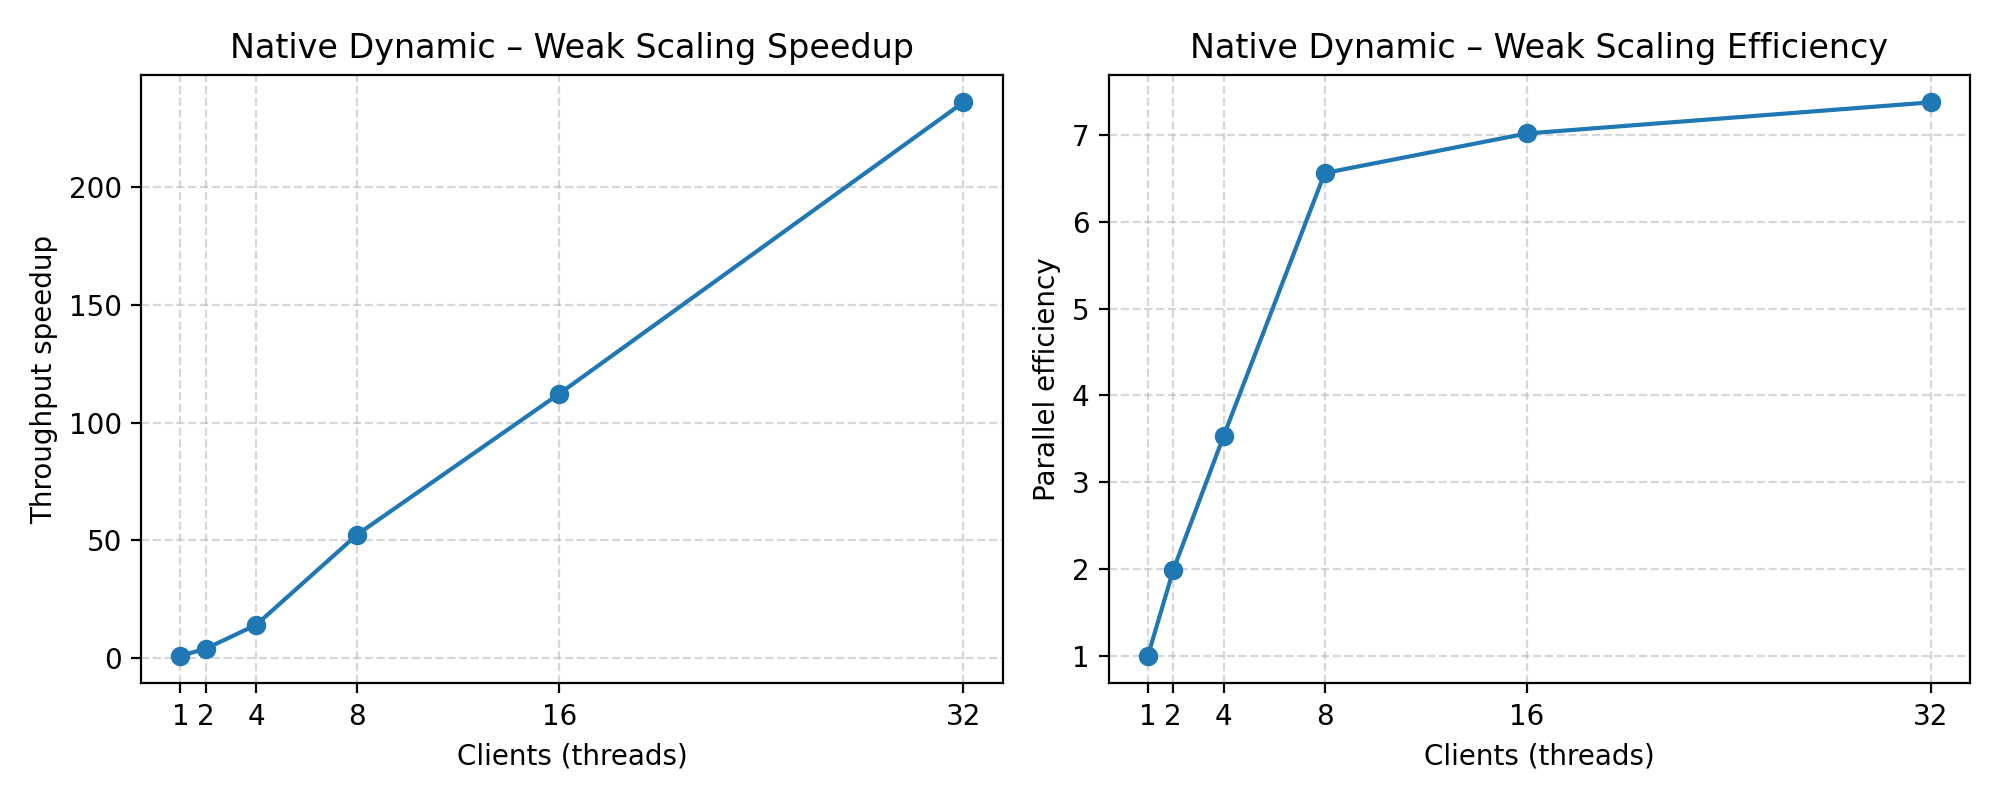
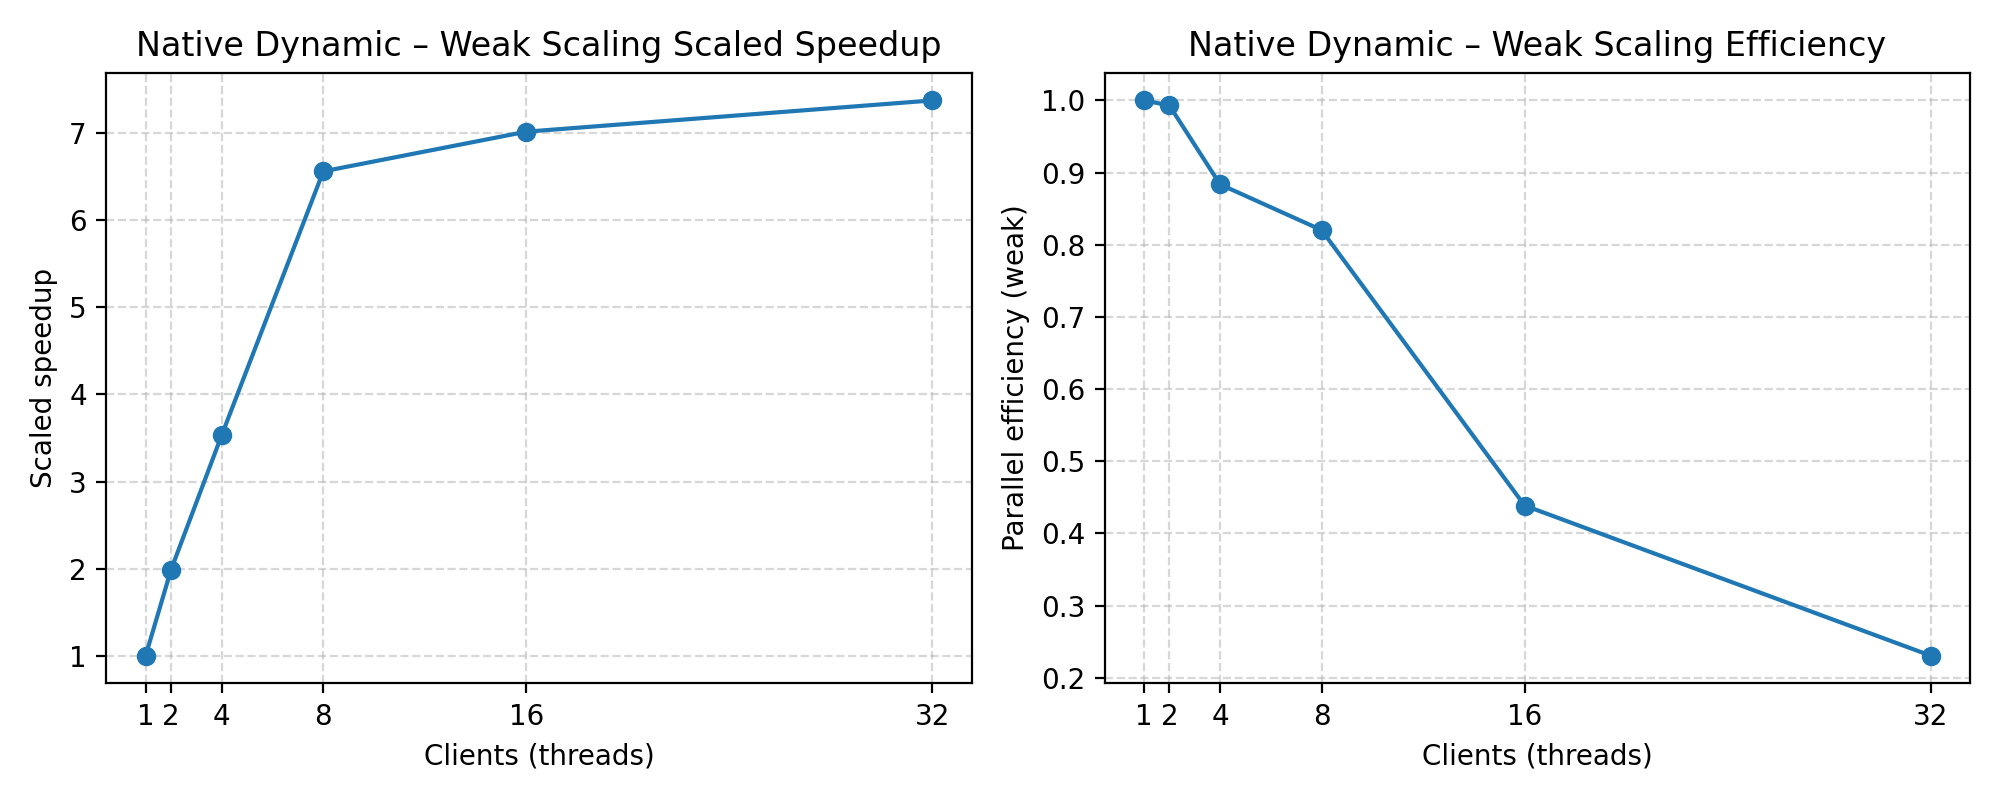
updated readme + refactored plots

diff --git a/tools/generate_plots.py b/tools/generate_plots.py
@@ -7,7 +7,7 @@ Usage:
     --results scaling-results/20251030_004543/scaling_results.csv \
     --output plots/
 
-The script expects a CSV with the schema documented in README.md:
+CSV schema (see README.md):
   variant,scaling_type,threads,executed_threads,data_size,total_size,iterations,avg_time_millis
 
 For each non-baseline variant it produces two PNG files per scaling mode:
@@ -15,6 +15,7 @@ For each non-baseline variant it produces two PNG files per scaling mode:
   <variant>_<scaling>_speedup_efficiency.png
 The baseline `jvm-local` variant is excluded from per-variant plots.
 """
+
 from __future__ import annotations
 
 import argparse
@@ -31,11 +32,11 @@ import numpy as np
 @dataclass
 class ScalingEntry:
     variant: str
-    scaling_type: str
+    scaling_type: str  # "strong" or "weak"
     threads: int
     executed_threads: int
-    data_size: float
-    total_size: float
+    data_size: float  # For WEAK: total work per run (already scales with p)
+    total_size: float  # For STRONG: total constant work across p
     iterations: int
     avg_time_ms: float
 
@@ -45,9 +46,13 @@ class ScalingEntry:
 
     @property
     def work_amount(self) -> float:
+        # IMPORTANT FIX:
+        # - Weak scaling rows already carry TOTAL work for that run in data_size (pN).
+        #   Do NOT multiply by threads again.
+        # - Strong scaling uses total_size (constant N).
         if self.scaling_type == "strong":
             return self.total_size
-        return self.data_size * self.executed_threads
+        return self.data_size
 
 
 def _parse_csv(path: Path) -> Dict[str, Dict[str, List[ScalingEntry]]]:
@@ -76,16 +81,44 @@ def _parse_csv(path: Path) -> Dict[str, Dict[str, List[ScalingEntry]]]:
     return result
 
 
-def _compute_metrics(entries: Iterable[ScalingEntry]) -> Dict[str, np.ndarray]:
-    entries = list(entries)
-    threads = np.array([item.executed_threads for item in entries], dtype=int)
-    work = np.array([item.work_amount for item in entries], dtype=float)
-    duration = np.array([item.duration_seconds for item in entries], dtype=float)
+def _compute_metrics(
+    entries: Iterable[ScalingEntry], scaling_type: str
+) -> Dict[str, np.ndarray]:
+    """
+    Returns arrays for threads, work, duration, throughput, speedup, efficiency.
 
+    Strong:
+      throughput = total_size / time
+      speedup    = throughput(p) / throughput(1)
+      efficiency = speedup / p
+
+    Weak:
+      throughput = data_size(p) / time               # data_size already equals p*N
+      E_weak     = T1(N) / Tp(pN)                    # based on durations only
+      S_scaled   = p * E_weak                        # reported as 'speedup' for plotting
+    """
+    entries = list(entries)
+    threads = np.array([it.executed_threads for it in entries], dtype=int)
+    work = np.array([it.work_amount for it in entries], dtype=float)
+    duration = np.array([it.duration_seconds for it in entries], dtype=float)
+
+    # Always useful to visualize absolute throughput
     throughput = work / duration
-    baseline = throughput[threads.argmin()]
-    speedup = throughput / baseline
-    efficiency = speedup / threads
+
+    if scaling_type == "strong":
+        # baseline at p = 1
+        if not np.any(threads == 1):
+            raise ValueError("Strong scaling group lacks a p=1 baseline.")
+        baseline_tp = throughput[threads == 1][0]
+        speedup = throughput / baseline_tp
+        efficiency = speedup / threads
+    else:
+        # Weak scaling metrics (corrected)
+        if not np.any(threads == 1):
+            raise ValueError("Weak scaling group lacks a p=1 baseline.")
+        T1N = duration[threads == 1][0]
+        efficiency = T1N / duration  # E_weak(p)
+        speedup = threads * efficiency  # Scaled speedup
 
     return {
         "threads": threads,
@@ -110,19 +143,23 @@ def _plot_throughput(metrics: Dict[str, np.ndarray], title: str, outfile: Path) 
     plt.close(fig)
 
 
-def _plot_speedup_efficiency(metrics: Dict[str, np.ndarray], title_prefix: str, outfile: Path) -> None:
+def _plot_speedup_efficiency(
+    metrics: Dict[str, np.ndarray], title_prefix: str, outfile: Path
+) -> None:
     fig, axes = plt.subplots(nrows=1, ncols=2, figsize=(10, 4))
+
+    is_weak = "weak" in title_prefix.lower()
 
     axes[0].plot(metrics["threads"], metrics["speedup"], marker="o")
     axes[0].set_xlabel("Clients (threads)")
-    axes[0].set_ylabel("Throughput speedup")
-    axes[0].set_title(f"{title_prefix} Speedup")
+    axes[0].set_ylabel("Scaled speedup" if is_weak else "Throughput speedup")
+    axes[0].set_title(f"{title_prefix} {'Scaled Speedup' if is_weak else 'Speedup'}")
     axes[0].grid(True, linestyle="--", alpha=0.5)
     _set_thread_ticks(axes[0], metrics["threads"])
 
     axes[1].plot(metrics["threads"], metrics["efficiency"], marker="o")
     axes[1].set_xlabel("Clients (threads)")
-    axes[1].set_ylabel("Parallel efficiency")
+    axes[1].set_ylabel("Parallel efficiency" + (" (weak)" if is_weak else ""))
     axes[1].set_title(f"{title_prefix} Efficiency")
     axes[1].grid(True, linestyle="--", alpha=0.5)
     _set_thread_ticks(axes[1], metrics["threads"])
@@ -145,12 +182,14 @@ def _generate_variant_plots(
     entries: List[ScalingEntry],
     output_dir: Path,
 ) -> None:
-    metrics = _compute_metrics(entries)
+    metrics = _compute_metrics(entries, scaling_type)
 
     def outfile(name: str) -> Path:
         return output_dir / f"{variant}_{scaling_type}_{name}.png"
 
-    title_prefix = f"{variant.replace('-', ' ').title()} – {scaling_type.capitalize()} Scaling"
+    title_prefix = (
+        f"{variant.replace('-', ' ').title()} – {scaling_type.capitalize()} Scaling"
+    )
     _plot_throughput(metrics, f"{title_prefix} Throughput", outfile("throughput"))
     _plot_speedup_efficiency(metrics, title_prefix, outfile("speedup_efficiency"))
 
@@ -160,13 +199,13 @@ def main() -> None:
     parser.add_argument(
         "--results",
         type=Path,
-        default=Path("scaling-results") / "latest" / "scaling_results.csv",
+        default=Path("data") / "latest" / "scaling_results.csv",
         help="Path to scaling_results.csv (default: scaling-results/latest/scaling_results.csv).",
     )
     parser.add_argument(
         "--startup",
         type=Path,
-        default=Path("scaling-results") / "latest" / "benchmark_results.json",
+        default=Path("data") / "latest" / "benchmark_results.json",
         help="Path to benchmark_results.json (default: scaling-results/latest/benchmark_results.json).",
     )
     parser.add_argument(

diff --git a/README.md b/README.md
@@ -192,6 +192,70 @@ Generated files include:
 
 > The baseline JVM variant (`jvm-local`) is intentionally skipped when creating per-variant PNGs; its values remain in the CSV/JSON for comparisons.
 
+## Plots included (plots/)
+
+Below are the PNGs produced by `tools/generate_plots.py` (files are in `plots/`). Each image is shown inline with a short description.
+
+### Startup time comparison
+
+- `startup_times.png` — Bar chart comparing server startup/bootstrap time across variants.
+
+![Startup times](plots/startup_times.png)
+
+### JVM (Gramine) variant: `jvm-gramine`
+
+- `jvm-gramine_strong_throughput.png` — Strong-scaling throughput (throughput vs thread count).
+
+![JVM Gramine strong throughput](plots/jvm-gramine_strong_throughput.png)
+
+- `jvm-gramine_strong_speedup_efficiency.png` — Strong-scaling speedup and parallel efficiency (two subplots).
+
+![JVM Gramine strong speedup & efficiency](plots/jvm-gramine_strong_speedup_efficiency.png)
+
+- `jvm-gramine_weak_throughput.png` — Weak-scaling throughput (throughput vs thread count).
+
+![JVM Gramine weak throughput](plots/jvm-gramine_weak_throughput.png)
+
+- `jvm-gramine_weak_speedup_efficiency.png` — Weak-scaling speedup and parallel efficiency (two subplots).
+
+![JVM Gramine weak speedup & efficiency](plots/jvm-gramine_weak_speedup_efficiency.png)
+
+### Native (dynamic) variant: `native-dynamic`
+
+- `native-dynamic_strong_throughput.png` — Strong-scaling throughput (throughput vs thread count).
+
+![Native dynamic strong throughput](plots/native-dynamic_strong_throughput.png)
+
+- `native-dynamic_strong_speedup_efficiency.png` — Strong-scaling speedup and parallel efficiency (two subplots).
+
+![Native dynamic strong speedup & efficiency](plots/native-dynamic_strong_speedup_efficiency.png)
+
+- `native-dynamic_weak_throughput.png` — Weak-scaling throughput (throughput vs thread count).
+
+![Native dynamic weak throughput](plots/native-dynamic_weak_throughput.png)
+
+- `native-dynamic_weak_speedup_efficiency.png` — Weak-scaling speedup and parallel efficiency (two subplots).
+
+![Native dynamic weak speedup & efficiency](plots/native-dynamic_weak_speedup_efficiency.png)
+
+### Native (static) variant: `native-static`
+
+- `native-static_strong_throughput.png` — Strong-scaling throughput (throughput vs thread count).
+
+![Native static strong throughput](plots/native-static_strong_throughput.png)
+
+- `native-static_strong_speedup_efficiency.png` — Strong-scaling speedup and parallel efficiency (two subplots).
+
+![Native static strong speedup & efficiency](plots/native-static_strong_speedup_efficiency.png)
+
+- `native-static_weak_throughput.png` — Weak-scaling throughput (throughput vs thread count).
+
+![Native static weak throughput](plots/native-static_weak_throughput.png)
+
+- `native-static_weak_speedup_efficiency.png` — Weak-scaling speedup and parallel efficiency (two subplots).
+
+![Native static weak speedup & efficiency](plots/native-static_weak_speedup_efficiency.png)
+
 ## References
 
 - [Gramine Documentation](https://gramine.readthedocs.io/)
